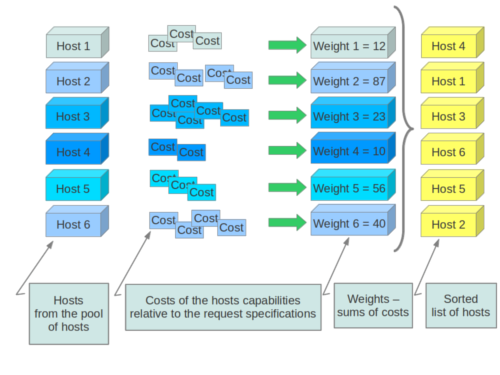
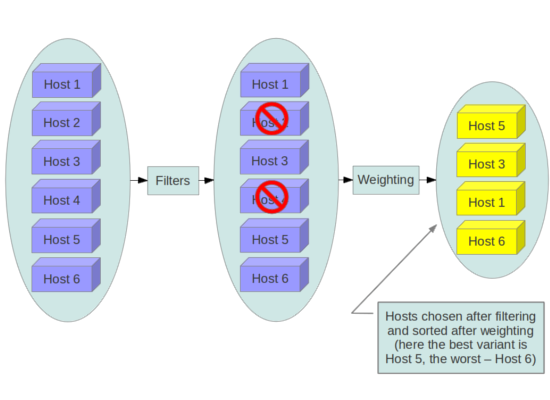
"bo sung"

diff --git a/BaoTG/07.OpenStack/01.Overview/2. openstack.md b/BaoTG/07.OpenStack/01.Overview/2. openstack.md
@@ -8,27 +8,27 @@
 
 ## CÁC TÍNH NĂNG CỦA OPENSTACK
 OpenStack sở hữu một bộ tính năng nổi bật, giúp doanh nghiệp vận hành hạ tầng cloud theo mô hình tự động và linh hoạt. Cụ thể:
-**Kiến trúc module linh hoạt**
-- OpenStack được xây dựng theo kiến trúc module với nhiều project độc lập như Nova, Neutron, Swift, Cinder, Keystone và Glance. Doanh nghiệp có thể triển khai toàn bộ hệ thống hoặc chỉ lựa chọn những thành phần phù hợp với nhu cầu sử dụng.
-- Nhờ cách thiết kế này, OpenStack có thể đáp ứng nhiều quy mô triển khai khác nhau, từ môi trường thử nghiệm nhỏ cho đến hệ thống cloud lớn trong doanh nghiệp.
-**Hỗ trợ đa người thuê**
-- OpenStack hỗ trợ mô hình multi-tenancy, cho phép nhiều nhóm người dùng cùng sử dụng chung một hạ tầng vật lý nhưng vẫn được tách biệt về tài nguyên, mạng, máy ảo và lưu trữ.
-- Tính năng này đặc biệt phù hợp với doanh nghiệp có nhiều phòng ban, nhiều nhóm kỹ thuật hoặc nhiều dự án cần vận hành song song trên cùng một nền tảng cloud.
-**Mã nguồn mở và dễ tùy chỉnh**
-- Là nền tảng mã nguồn mở, OpenStack cho phép doanh nghiệp sử dụng, tùy chỉnh và mở rộng theo nhu cầu riêng. Đây là lợi thế lớn đối với các tổ chức muốn chủ động về công nghệ và hạn chế phụ thuộc vào một nhà cung cấp cloud duy nhất.
-- Bên cạnh đó, OpenStack cũng có thể tích hợp với nhiều công cụ trong hệ sinh thái DevOps, giám sát, bảo mật và tự động hóa hạ tầng.
-**Kiến trúc phân tán**
-- Các dịch vụ trong OpenStack có thể được triển khai trên nhiều máy chủ khác nhau. Nhờ đó, hệ thống có thể mở rộng theo chiều ngang, tăng khả năng sẵn sàng và giảm ảnh hưởng khi một node gặp sự cố.
-- Đây là yếu tố quan trọng đối với các hệ thống cloud cần phục vụ nhiều người dùng, xử lý khối lượng tài nguyên lớn hoặc yêu cầu tính ổn định cao.
-**Điều khiển thông qua API**
-- Hầu hết thao tác trong OpenStack đều có thể được thực hiện thông qua API. Điều này giúp quản trị viên dễ dàng tích hợp OpenStack với các công cụ tự động hóa như Ansible, Terraform hoặc các quy trình Infrastructure as Code.
-- Thay vì xử lý thủ công từng tác vụ, đội ngũ kỹ thuật có thể tự động hóa việc tạo máy ảo, cấp phát mạng, cấu hình lưu trữ và quản lý tài nguyên theo các kịch bản đã định sẵn.
-**Dashboard quản trị trực quan**
-- OpenStack cung cấp Horizon, một dashboard quản trị dựa trên giao diện web. Thông qua Horizon, người dùng có thể tạo máy ảo, quản lý volume, cấu hình mạng, theo dõi tài nguyên và thực hiện nhiều tác vụ quản trị cơ bản.
-- Nhờ có giao diện trực quan, việc sử dụng OpenStack trở nên dễ tiếp cận hơn, đặc biệt với những người dùng không muốn phụ thuộc hoàn toàn vào dòng lệnh.
-**Gom tài nguyên thành pool chung**
-- OpenStack có khả năng gom các tài nguyên rời rạc trong trung tâm dữ liệu thành một pool tài nguyên chung. Khi người dùng yêu cầu tạo máy ảo hoặc cấp phát lưu trữ, hệ thống sẽ tự động điều phối tài nguyên phù hợp.
-- Cơ chế này giúp doanh nghiệp sử dụng tài nguyên hiệu quả hơn, đồng thời hạn chế tình trạng lãng phí phần cứng trong quá trình vận hành.
+- **Kiến trúc module linh hoạt**
+    + OpenStack được xây dựng theo kiến trúc module với nhiều project độc lập như Nova, Neutron, Swift, Cinder, Keystone và Glance. Doanh nghiệp có thể triển khai toàn bộ hệ thống hoặc chỉ lựa chọn những thành phần phù hợp với nhu cầu sử dụng.
+    + Nhờ cách thiết kế này, OpenStack có thể đáp ứng nhiều quy mô triển khai khác nhau, từ môi trường thử nghiệm nhỏ cho đến hệ thống cloud lớn trong doanh nghiệp.
+- **Hỗ trợ đa người thuê**
+    + OpenStack hỗ trợ mô hình multi-tenancy, cho phép nhiều nhóm người dùng cùng sử dụng chung một hạ tầng vật lý nhưng vẫn được tách biệt về tài nguyên, mạng, máy ảo và lưu trữ.
+    + Tính năng này đặc biệt phù hợp với doanh nghiệp có nhiều phòng ban, nhiều nhóm kỹ thuật hoặc nhiều dự án cần vận hành song song trên cùng một nền tảng cloud.
+- **Mã nguồn mở và dễ tùy chỉnh**
+    + Là nền tảng mã nguồn mở, OpenStack cho phép doanh nghiệp sử dụng, tùy chỉnh và mở rộng theo nhu cầu riêng. Đây là lợi thế lớn đối với các tổ chức muốn chủ động về công nghệ và hạn chế phụ thuộc vào một nhà cung cấp cloud duy nhất.
+    + Bên cạnh đó, OpenStack cũng có thể tích hợp với nhiều công cụ trong hệ sinh thái DevOps, giám sát, bảo mật và tự động hóa hạ tầng.
+- **Kiến trúc phân tán**
+    + Các dịch vụ trong OpenStack có thể được triển khai trên nhiều máy chủ khác nhau. Nhờ đó, hệ thống có thể mở rộng theo chiều ngang, tăng khả năng sẵn sàng và giảm ảnh hưởng khi một node gặp sự cố.
+    + Đây là yếu tố quan trọng đối với các hệ thống cloud cần phục vụ nhiều người dùng, xử lý khối lượng tài nguyên lớn hoặc yêu cầu tính ổn định cao.
+- **Điều khiển thông qua API**
+    + Hầu hết thao tác trong OpenStack đều có thể được thực hiện thông qua API. Điều này giúp quản trị viên dễ dàng tích hợp OpenStack với các công cụ tự động hóa như Ansible, Terraform hoặc các quy trình Infrastructure as Code.
+    + Thay vì xử lý thủ công từng tác vụ, đội ngũ kỹ thuật có thể tự động hóa việc tạo máy ảo, cấp phát mạng, cấu hình lưu trữ và quản lý tài nguyên theo các kịch bản đã định sẵn.
+- **Dashboard quản trị trực quan**
+    + OpenStack cung cấp Horizon, một dashboard quản trị dựa trên giao diện web. Thông qua Horizon, người dùng có thể tạo máy ảo, quản lý volume, cấu hình mạng, theo dõi tài nguyên và thực hiện nhiều tác vụ quản trị cơ bản.
+    + Nhờ có giao diện trực quan, việc sử dụng OpenStack trở nên dễ tiếp cận hơn, đặc biệt với những người dùng không muốn phụ thuộc hoàn toàn vào dòng lệnh.
+- **Gom tài nguyên thành pool chung**
+    + OpenStack có khả năng gom các tài nguyên rời rạc trong trung tâm dữ liệu thành một pool tài nguyên chung. Khi người dùng yêu cầu tạo máy ảo hoặc cấp phát lưu trữ, hệ thống sẽ tự động điều phối tài nguyên phù hợp.
+    + Cơ chế này giúp doanh nghiệp sử dụng tài nguyên hiệu quả hơn, đồng thời hạn chế tình trạng lãng phí phần cứng trong quá trình vận hành.
 
 ## ƯU NHƯỢC ĐIỂM CỦA OPENSTACK
 ### Ưu Điểm:

diff --git a/BaoTG/07.OpenStack/01.Overview/3. api.md b/BaoTG/07.OpenStack/01.Overview/3. api.md
@@ -4,6 +4,51 @@
 - API có chức năng truy xuất vào một tập hợp những hàm thường sử dụng. Nó giúp cho quá trình chia sẻ dữ liệu  giữa những ứng dụng trở nên dễ dàng hơn.
 - Ví dụ: Hệ thống phần mềm định vị và lưu trữ dữ liệu về bản đồ trên thế giới của đơn vị có thẩm quyền. Thì ứng dụng maps trên điện thoại của bạn đã tương tác với hệ thống này qua API để trao đổi dữ liệu và cập nhật những thông tin mới nhất trên điện thoại di động.
 
+## Vai trò của API
+
+## Ưu điểm của API
+
 ## RESTful API là gì
+- REST: là một dạng chuyển đổi cấu trúc dữ liệu, một kiểu kiến trúc để viết API. Nó sử dụng phương thức HTTP đơn giản để tạo cho giao tiếp giữa các máy. Vì vậy, thay vì sử dụng một URL cho việc xử lý một số thông tin người dùng, REST gửi một yêu cầu HTTP như GET, POST, DELETE … đến một URL để xử lý dữ liệu.    
+- REST hoạt động dựa chủ yếu trên phương thức CRUD ( Create, Read, Update, Delete) tương đương với 4 giao thức HTTP: POST, GET, PUT, DELETE.
+- RESTful API: là một tiêu chuẩn dùng trong việc thiết kế API cho các ứng dụng Web (như thiết kế Web services), để tiện cho việc quản lý các resource. Nó chú trọng vào resource hệ thống (như: tệp văn bản, ảnh, âm thanh, video, hoặc dữ liệu động…), bao gồm các trạng thái resource được định dạng và được truyền tải qua HTTP.
+- Có nhiều bạn mới tìm hiểu về RESTful cũng thường cảm thấy bối rối đó là REST và RESTful khác nhau như thế nào. REST là viết tắt của cụm từ Representational State Transfer và các ứng dụng sử dụng kiểu thiết kế REST thì được gọi là RESTful (-ful là tiếp vị ngữ giống như beauty và beautiful). Tất nhiên bạn cũng có thể sử dụng thuật ngữ REST thay cho RESTful và ngược lại.
 
 ## API làm việc như thế nào
+API được xây dựng trên chính 2 thành phần: `Request` và `Reponse`
+
+![api](./images/api-1.png)
+
+- **Về request**
+Một cái request đúng chuẩn cần có 4 thứ:
+> URL
++ URL là địa chỉ duy nhất cho 1 request, thường là đường dẫn tới một hàm xử lí logic.
+> Method
+- HTTP request có tất cả 9 loại method , 2 loại được sử dụng phổ biến nhất là GET và POST
+    + GET: Sử dụng để lấy thông tin từ server theo URI đã cung cấp.
+    + HEAD: Giống với GET nhưng response trả về không có body, chỉ có header.
+    + POST: Gửi thông tin tới sever thông qua các parameters HTTP.
+    + PUT: Ghi đè tất cả thông tin của đối tượng với những gì được gửi lên.
+    + PATCH: Ghi đè các thông tin được thay đổi của đối tượng.
+    + DELETE: Xóa resource trên server.
+    + CONNECT: Thiết lập một kết nối tới server theo URI.
+    + OPTIONS: Mô tả các tùy chọn giao tiếp cho resource.
+    + TRACE: Thực hiện một bài test loop-back theo đường dẫn đến resource.
+> Headers
++ Là nơi chứa các thông tin cần thiết của 1 request nhưng end-users không biết có sự tồn tại của nó. Ví dụ: độ dài của request body, thời gian gửi request, loại thiết bị đang sử dụng, loại định dạng cái response mà client có đọc được…
+> Body
++ Là nơi chứa thông tin mà client sẽ điền.
+
+- **Về response**
+Sau khi nhận được request từ phía client, server sẽ xử lý cái request đó và gửi ngược lại cho client 1 cái response. Cấu trúc của 1 response tương đối giống phần request nhưng Status code sẽ thay thế cho URL và Method. Tóm lại, nó có cầu trúc 3 phần:
++ Status code
++ Headers
++ Body
+Phần Header và body tương đối giống với request.
+- **Status code của response**
+- Status code (Mã hóa trạng thái thường được gọi là mã trạng thái) là một số nguyên 3 ký tự, trong đó ký tự đầu tiên của Status-Code định nghĩa loại Response và hai ký tự cuối không có bất cứ vai trò phân loại nào. Có 5 giá trị của ký tự đầu tiên:
+    + 1xx: Information (Thông tin): Khi nhận được những mã như vậy tức là request đã được server tiếp nhận và quá trình xử lý request đang được tiếp tục.
+    + 2xx: Success (Thành công): Khi nhận được những mã như vậy tức là request đã được server tiếp nhận, hiểu và xử lý thành công
+    + 3xx: Redirection (Chuyển hướng): Mã trạng thái này cho biết client cần có thêm action để hoàn thành request
+    + 4xx: Client Error (Lỗi Client): Nó nghĩa là request chứa cú pháp không chính xác hoặc không được thực hiện.
+    + 5xx: Server Error (Lỗi Server): Nó nghĩa là Server thất bại với việc thực hiện một request nhìn như có vẻ khả thi.

diff --git a/BaoTG/07.OpenStack/04.Cinder/3. backend-storage.md b/BaoTG/07.OpenStack/04.Cinder/3. backend-storage.md
@@ -1,0 +1,45 @@
+# TÌM HIỂU VỀ BACKEND STORAGE CỦA CINDER
+- Trong kiến trúc của OpenStack, dịch vụ Block Storage (Cinder) đóng vai trò là lớp trừu tượng (abstraction layer). Bản thân dịch vụ cinder-volume không trực tiếp lưu trữ dữ liệu, mà nó thông qua các driver để giao tiếp và điều khiển các hệ thống lưu trữ bên dưới (back-end).
+## LVM (Logical Volume Manager)
+- Bản chất: Sử dụng các ổ đĩa cục bộ gắn trên một node lưu trữ (Storage Node) và quản lý chúng thông qua tính năng LVM của Linux, kết hợp với giao thức iSCSI để cung cấp ổ đĩa cho máy ảo.
+
+- Ưu điểm:
+    + Cực kỳ dễ cài đặt, không đòi hỏi phần cứng phức tạp.
+    + Phù hợp hoàn hảo cho môi trường học tập, thử nghiệm, hoặc phát triển phần mềm (Dev/Test).
+
+- Nhược điểm:
+    + Thiếu tính sẵn sàng cao (HA): Nếu storage node chứa LVM đó gặp sự cố phần cứng, các ổ đĩa của người dùng sẽ bị ảnh hưởng.
+    + Khó mở rộng dung lượng khi hệ thống phát triển lớn (bị giới hạn tài nguyên của một máy vật lý đơn lẻ).
+
+## Ceph RBD (RADOS Block Device)
+- Bản chất: Sử dụng cụm lưu trữ phân tán mã nguồn mở Ceph làm back-end. Các ổ đĩa của Cinder sẽ được lưu dưới dạng các khối phân tán trên cụm Ceph.
+
+- Ưu điểm:
+    + Độ sẵn sàng và độ bền cực cao: Dữ liệu được nhân bản tự động, không có điểm lỗi đơn lẻ (SPOF).
+    + Hiệu suất cao, hỗ trợ tạo snapshot và clone ổ đĩa diễn ra tức thì (rất hữu ích khi kết hợp với Glance và Nova).
+    + Khả năng mở rộng quy mô lớn theo chiều ngang một cách dễ dàng.
+
+- Nhược điểm:
+    + Yêu cầu kiến thức chuyên sâu và hạ tầng phần cứng lớn để vận hành cụm Ceph ổn định.
+
+## NFS (Network File System)
+- Bản chất: Sử dụng một máy chủ lưu trữ mạng (NAS) bên ngoài chia sẻ thư mục qua giao thức NFS. Cinder sẽ lưu các ổ đĩa của máy ảo dưới dạng các tệp tin đặt trên thư mục chia sẻ này.
+
+- Ưu điểm:
+    + Tận dụng được các thiết bị NAS sẵn có trong doanh nghiệp.
+    + Dễ dàng cấu hình và quản lý dung lượng tập trung.
+
+- Nhược điểm:
+    + Hiệu suất có thể bị ảnh hưởng nếu mạng giữa compute node và storage node bị nghẽn (bottleneck).
+    + Phụ thuộc vào độ ổn định của máy chủ cung cấp dịch vụ NFS.
+
+## Enterprise SAN / NAS (Thương mại: Dell EMC, NetApp, HPE, Huawei, v.v.)
+- Bản chất: Sử dụng các thiết bị lưu trữ phần cứng chuyên dụng cao cấp của các hãng lớn thông qua các driver tích hợp sẵn trong Cinder (giao tiếp qua Fibre Channel hoặc iSCSI).
+
+- Ưu điểm:
+    + Tích hợp tính năng cao cấp: Hỗ trợ các công nghệ phần cứng tối ưu như chống trùng lặp dữ liệu (deduplication), nén (compression), snapshot phần cứng cực nhanh và sao lưu từ xa (replication).
+    + Hiệu suất phần cứng vượt trội, đáp ứng các hệ thống lớn cho doanh nghiệp (Enterprise Production).
+
+- Nhược điểm:
+    + Chi phí đầu tư bản quyền thiết bị và phần cứng rất đắt đỏ.
+    + Phụ thuộc vào hệ sinh thái của từng hãng sản xuất phần cứng.

diff --git a/BaoTG/07.OpenStack/06.Nova/3. nova-components.md b/BaoTG/07.OpenStack/06.Nova/3. nova-components.md
@@ -18,6 +18,29 @@
     * Filters (Bộ lọc): Loại bỏ ngay lập tức những node không đủ điều kiện (ví dụ: node đã đầy RAM, node đang bị tắt, hoặc bộ lọc ép máy ảo này phải nằm ở một nhóm anti-affinity riêng biệt).
     * Weighing (Chấm điểm/Cân bằng): Sắp xếp các node còn lại theo tiêu chí tối ưu hóa (ví dụ: ưu tiên chọn node đang trống nhiều tài nguyên nhất để cân bằng tải, hoặc dồn tài nguyên vào một node để tiết kiệm điện năng).
 
+### Quy trình Filtering và Weighing
+**Giai đoạn 1: Bộ lọc (Filtering) - Loại bỏ các node không đủ điều kiện**
+- Trước tiên, nova-scheduler lấy danh sách toàn bộ các Compute Node từ dịch vụ Placement và áp dụng một chuỗi các bộ lọc (filters) để loại bỏ ngay lập tức những node không đáp ứng đủ tiêu chuẩn. Các bộ lọc phổ biến bao gồm:
+    + ComputeFilter: Đảm bảo node đang hoạt động bình thường (up) và sẵn sàng nhận việc.
+    + RamFilter: Kiểm tra xem node còn đủ dung lượng RAM trống hay không (dựa trên tỷ lệ cấu hình ram_allocation_ratio). Nếu không đủ, node bị loại.
+    + CoreFilter: Kiểm tra số lượng vCPU có sẵn trên node (đảm bảo không vượt quá giới hạn phân bổ vCPU cho phép).
+    + DiskFilter: Kiểm tra dung lượng ổ đĩa trống trên node.
+    + AvailabilityZoneFilter: Lọc các node nằm đúng trong vùng sẵn sàng (Availability Zone) mà người dùng đã chỉ định.
+    + ServerGroupAntiAffinityFilter / ServerGroupAffinityFilter: Đảm bảo các máy ảo trong cùng một nhóm phải được đặt trên các máy chủ vật lý khác nhau (để tăng tính dự phòng) hoặc phải nằm chung một máy chủ (để giảm độ trễ mạng).
+
+![filter](./images/5.png)
+
+Sau khi qua vòng lọc này, chỉ những node thỏa mãn toàn bộ các điều kiện mới được giữ lại vào danh sách ứng cử viên.
+
+**Giai đoạn 2: Chấm điểm (Weighing) - Chọn ra node tối ưu nhất**
+- Từ danh sách các node đã vượt qua vòng lọc, nova-scheduler sẽ tiến hành chấm điểm (weighers) để xếp hạng xem node nào là sáng giá nhất. Mỗi bộ chấm điểm sẽ cộng hoặc trừ điểm dựa trên các tiêu chí cụ thể:
+    + RamWeigher (hoặc ComputeCapabilitiesWeigher): Thường được cấu hình để ưu tiên chọn node còn trống nhiều tài nguyên nhất (Spread) nhằm cân bằng tải cho toàn bộ hệ thống, hoặc ngược lại, dồn tài nguyên vào một vài node (Bin-pack) để tiết kiệm điện năng cho các node còn lại.
+    + Trọng số tùy chỉnh: Quản trị viên có thể cấu hình trọng số (weights) để ưu tiên các node có phần cứng đặc thù hoặc ổ đĩa tốc độ cao hơn.
+
+![weighing](./images/3.png)
+
+Cuối cùng, node nào có số điểm cao nhất sau khi qua các bộ tính toán trọng số sẽ được nova-scheduler chọn làm nơi dừng chân cho máy ảo mới.
+
 ## Nova-conductor
 - Bản chất: Là lớp dịch vụ trung gian nằm giữa các tiến trình Compute ở vùng mạng xa và cơ sở dữ liệu chung (Nova Database).
 
